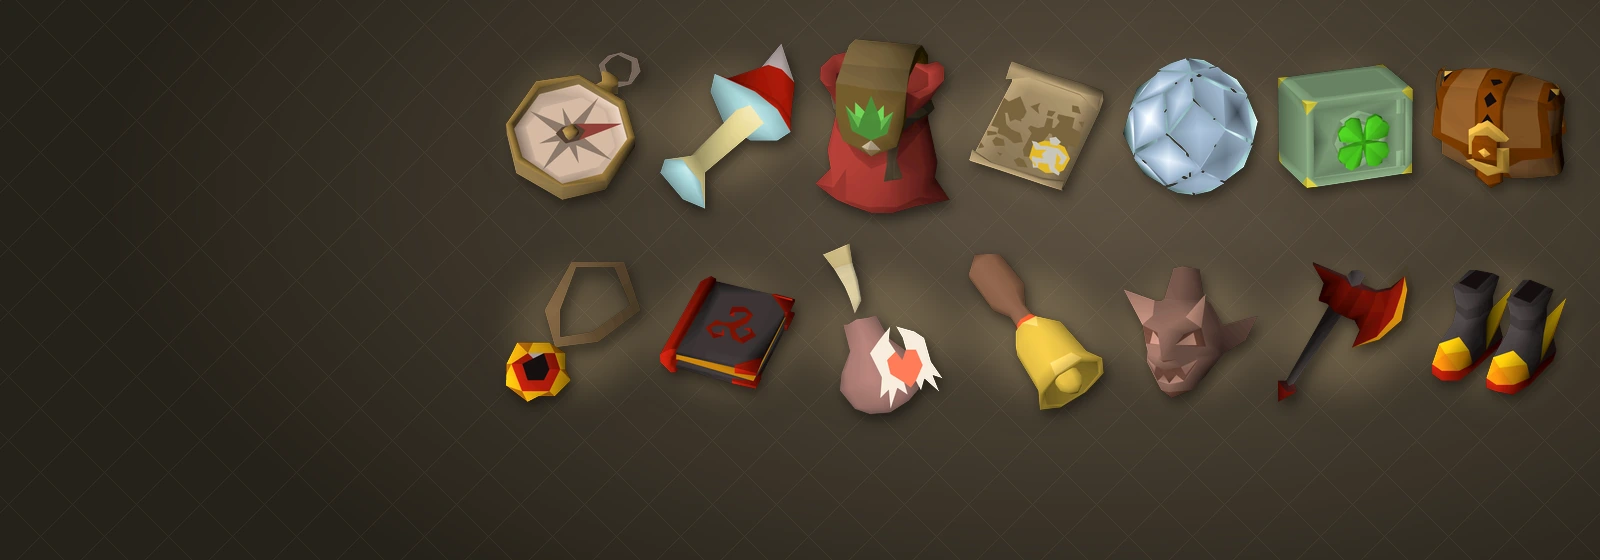
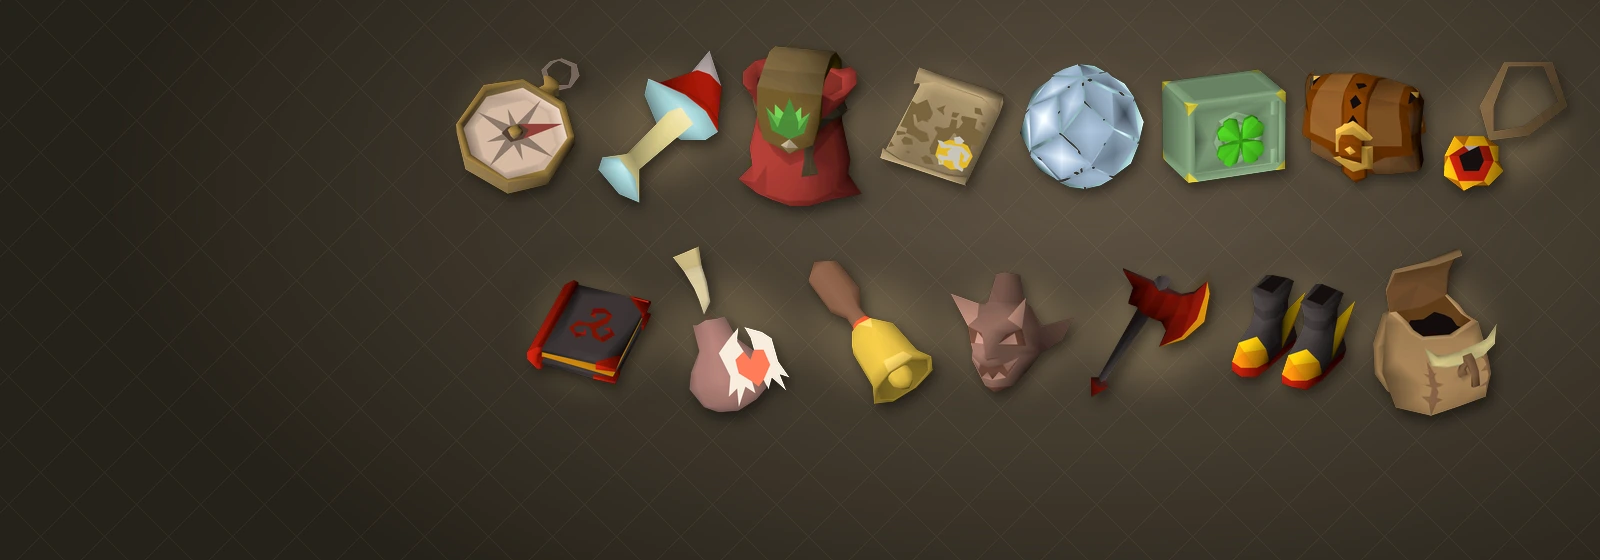
Add Knapsack toggle and sprite to Leagues Items plugin

Changed region(s): [[0.2812, 0.0607, 1.0, 0.3946], [0.3125, 0.425, 1.0, 0.7589]]

diff --git a/plugins/leagues-items/LeaguesItems.plugin.js b/plugins/leagues-items/LeaguesItems.plugin.js
@@ -18,8 +18,9 @@
  * - Minion whistle (28769): demonic minion summon, Zamorak item upgrades, Rules/Banish/Check
  * - Sage's axe (28773): 6/8-tile thrown weapon executing NPCs <20% HP
  * - Searing boots (28771): running Agility XP, auto-cook caught fish, auto-smelt mined ore
+ * - Knapsack (33218/33220): 140-cap / 3-kind gathered item container (toggleable on main worlds)
  *
- * Note: Knapsack (33218/33220) and Shadowflame quadrant (33253) already work natively on main worlds.
+ * Note: Shadowflame quadrant (33253) already works natively on main worlds.
  * On league worlds, every handler defers to the server's built-in league relic handlers.
  */
 
@@ -38,6 +39,7 @@ const CONFIG = {
   "leagues-items:minion-whistle": { type: "boolean", default: true, label: "Minion whistle", help: "Enable Minion whistle (28769) demonic minion summon and Zamorak item upgrades on main worlds." },
   "leagues-items:sages-axe": { type: "boolean", default: true, label: "Sage's axe", help: "Enable Sage's axe (28773) 6/8-tile thrown execute (<20% HP) on main worlds." },
   "leagues-items:searing-boots": { type: "boolean", default: true, label: "Searing boots", help: "Enable Searing boots (28771) running Agility XP and auto-cook/auto-smelt on main worlds." },
+  "leagues-items:knapsack": { type: "boolean", default: true, label: "Knapsack", help: "Enable Knapsack (33218/33220) actions and item storage on main worlds." },
 };
 
 const ANY_WILDERNESS_LEVEL = 60;
@@ -156,6 +158,7 @@ const CONFIG_KEYS = {
   minionWhistle: "leagues-items:minion-whistle",
   sagesAxe: "leagues-items:sages-axe",
   searingBoots: "leagues-items:searing-boots",
+  knapsack: "leagues-items:knapsack",
 };
 
 function enabled(key) {
@@ -2161,6 +2164,30 @@ module.exports = {
     api.onCustomEvent("storage:gather", searingGatherProcess);
     api.onCustomEvent("storage:gather", searingGatherDeliver);
     api.onPlayerLogin(searingWatchLogin);
+
+    // Knapsack (built-in StorageItems handles it when enabled; intercept when toggled off on main worlds)
+    const blockKnapsack = (event) => {
+      if (enabled("knapsack") || inLeague(event.player)) return;
+      event.handled = true;
+    };
+    api.onItemAction("Knapsack", {
+      Fill: blockKnapsack,
+      Check: blockKnapsack,
+      Open: blockKnapsack,
+      Close: blockKnapsack,
+      Dispose: blockKnapsack,
+    });
+    api.onItemOnItem((event) => {
+      if (enabled("knapsack") || inLeague(event.player)) return;
+      const a = event.usedItem?.getDefinition?.()?.getName?.();
+      const b = event.usedWithItem?.getDefinition?.()?.getName?.();
+      if (a === "Knapsack" || b === "Knapsack") event.handled = true;
+    });
+    api.onCustomEvent(core.Bank.INVENTORY_OP_EVENT, (event) => {
+      if (enabled("knapsack") || inLeague(event.player)) return;
+      const name = core.CacheDefinitions.getItem(event.itemId)?.name;
+      if (name === "Knapsack") event.handled = true;
+    });
   },
   _test: { DATA, CONFIG },
 };

diff --git a/plugins/leagues-items/README.md b/plugins/leagues-items/README.md
@@ -1,6 +1,6 @@
 # Leagues Items
 
-Adds 14 items from the OSRS Leagues game modes to main (non-league) worlds. On league worlds, every handler defers to the server's built-in league relic handlers.
+Adds 15 items from the OSRS Leagues game modes to main (non-league) worlds. On league worlds, every handler defers to the server's built-in league relic handlers.
 
 ## Included items
 
@@ -20,6 +20,7 @@ Adds 14 items from the OSRS Leagues game modes to main (non-league) worlds. On l
 | **Minion whistle** | `28769` | Summons a 30-minute demonic minion that upgrades with unique Zamorak items, plus `Banish`, `Rules`, and `Check` |
 | **Sage's axe** | `28773` | 6-tile (8 Longrange) thrown weapon that executes NPCs below 20% HP (sparing Yama & Gemstone Crab) |
 | **Searing boots** | `28771` | Running Agility XP plus automatic cooking of caught fish and smelting of mined ore |
+| **Knapsack** | `33218` / `33220` | 140-cap / 3-kind gathered item container (toggleable on main worlds) |
 
 ## Configuration
 
